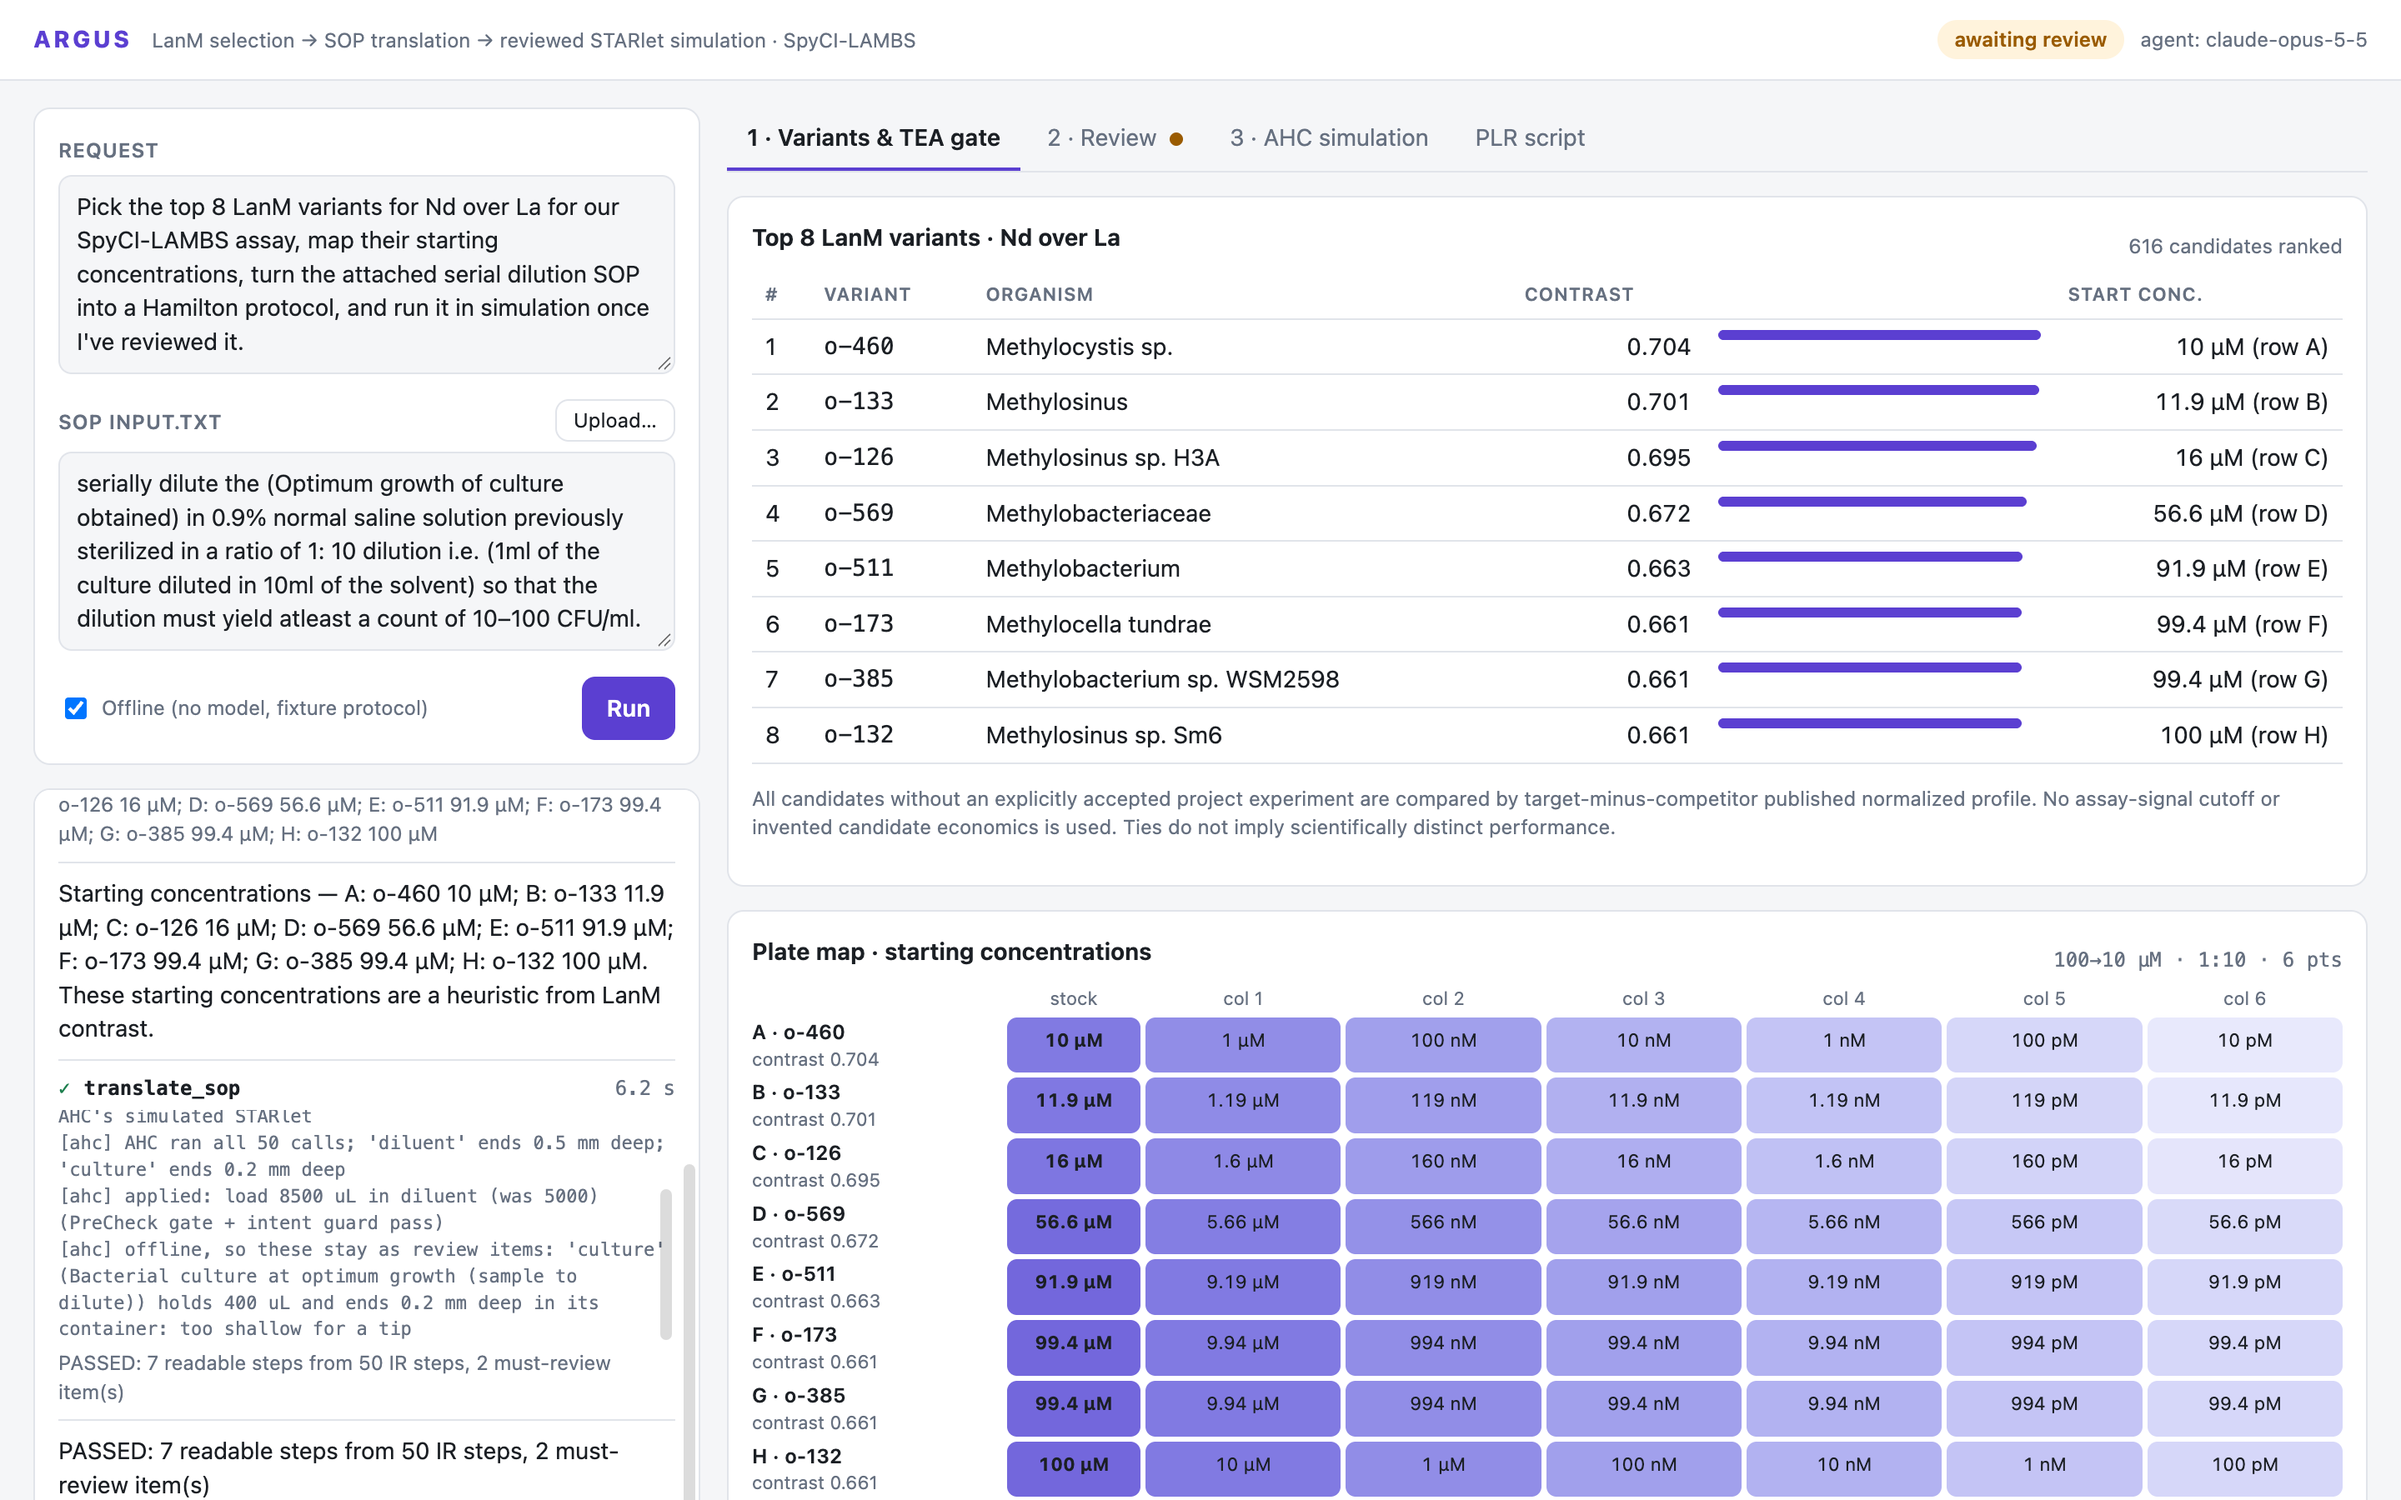
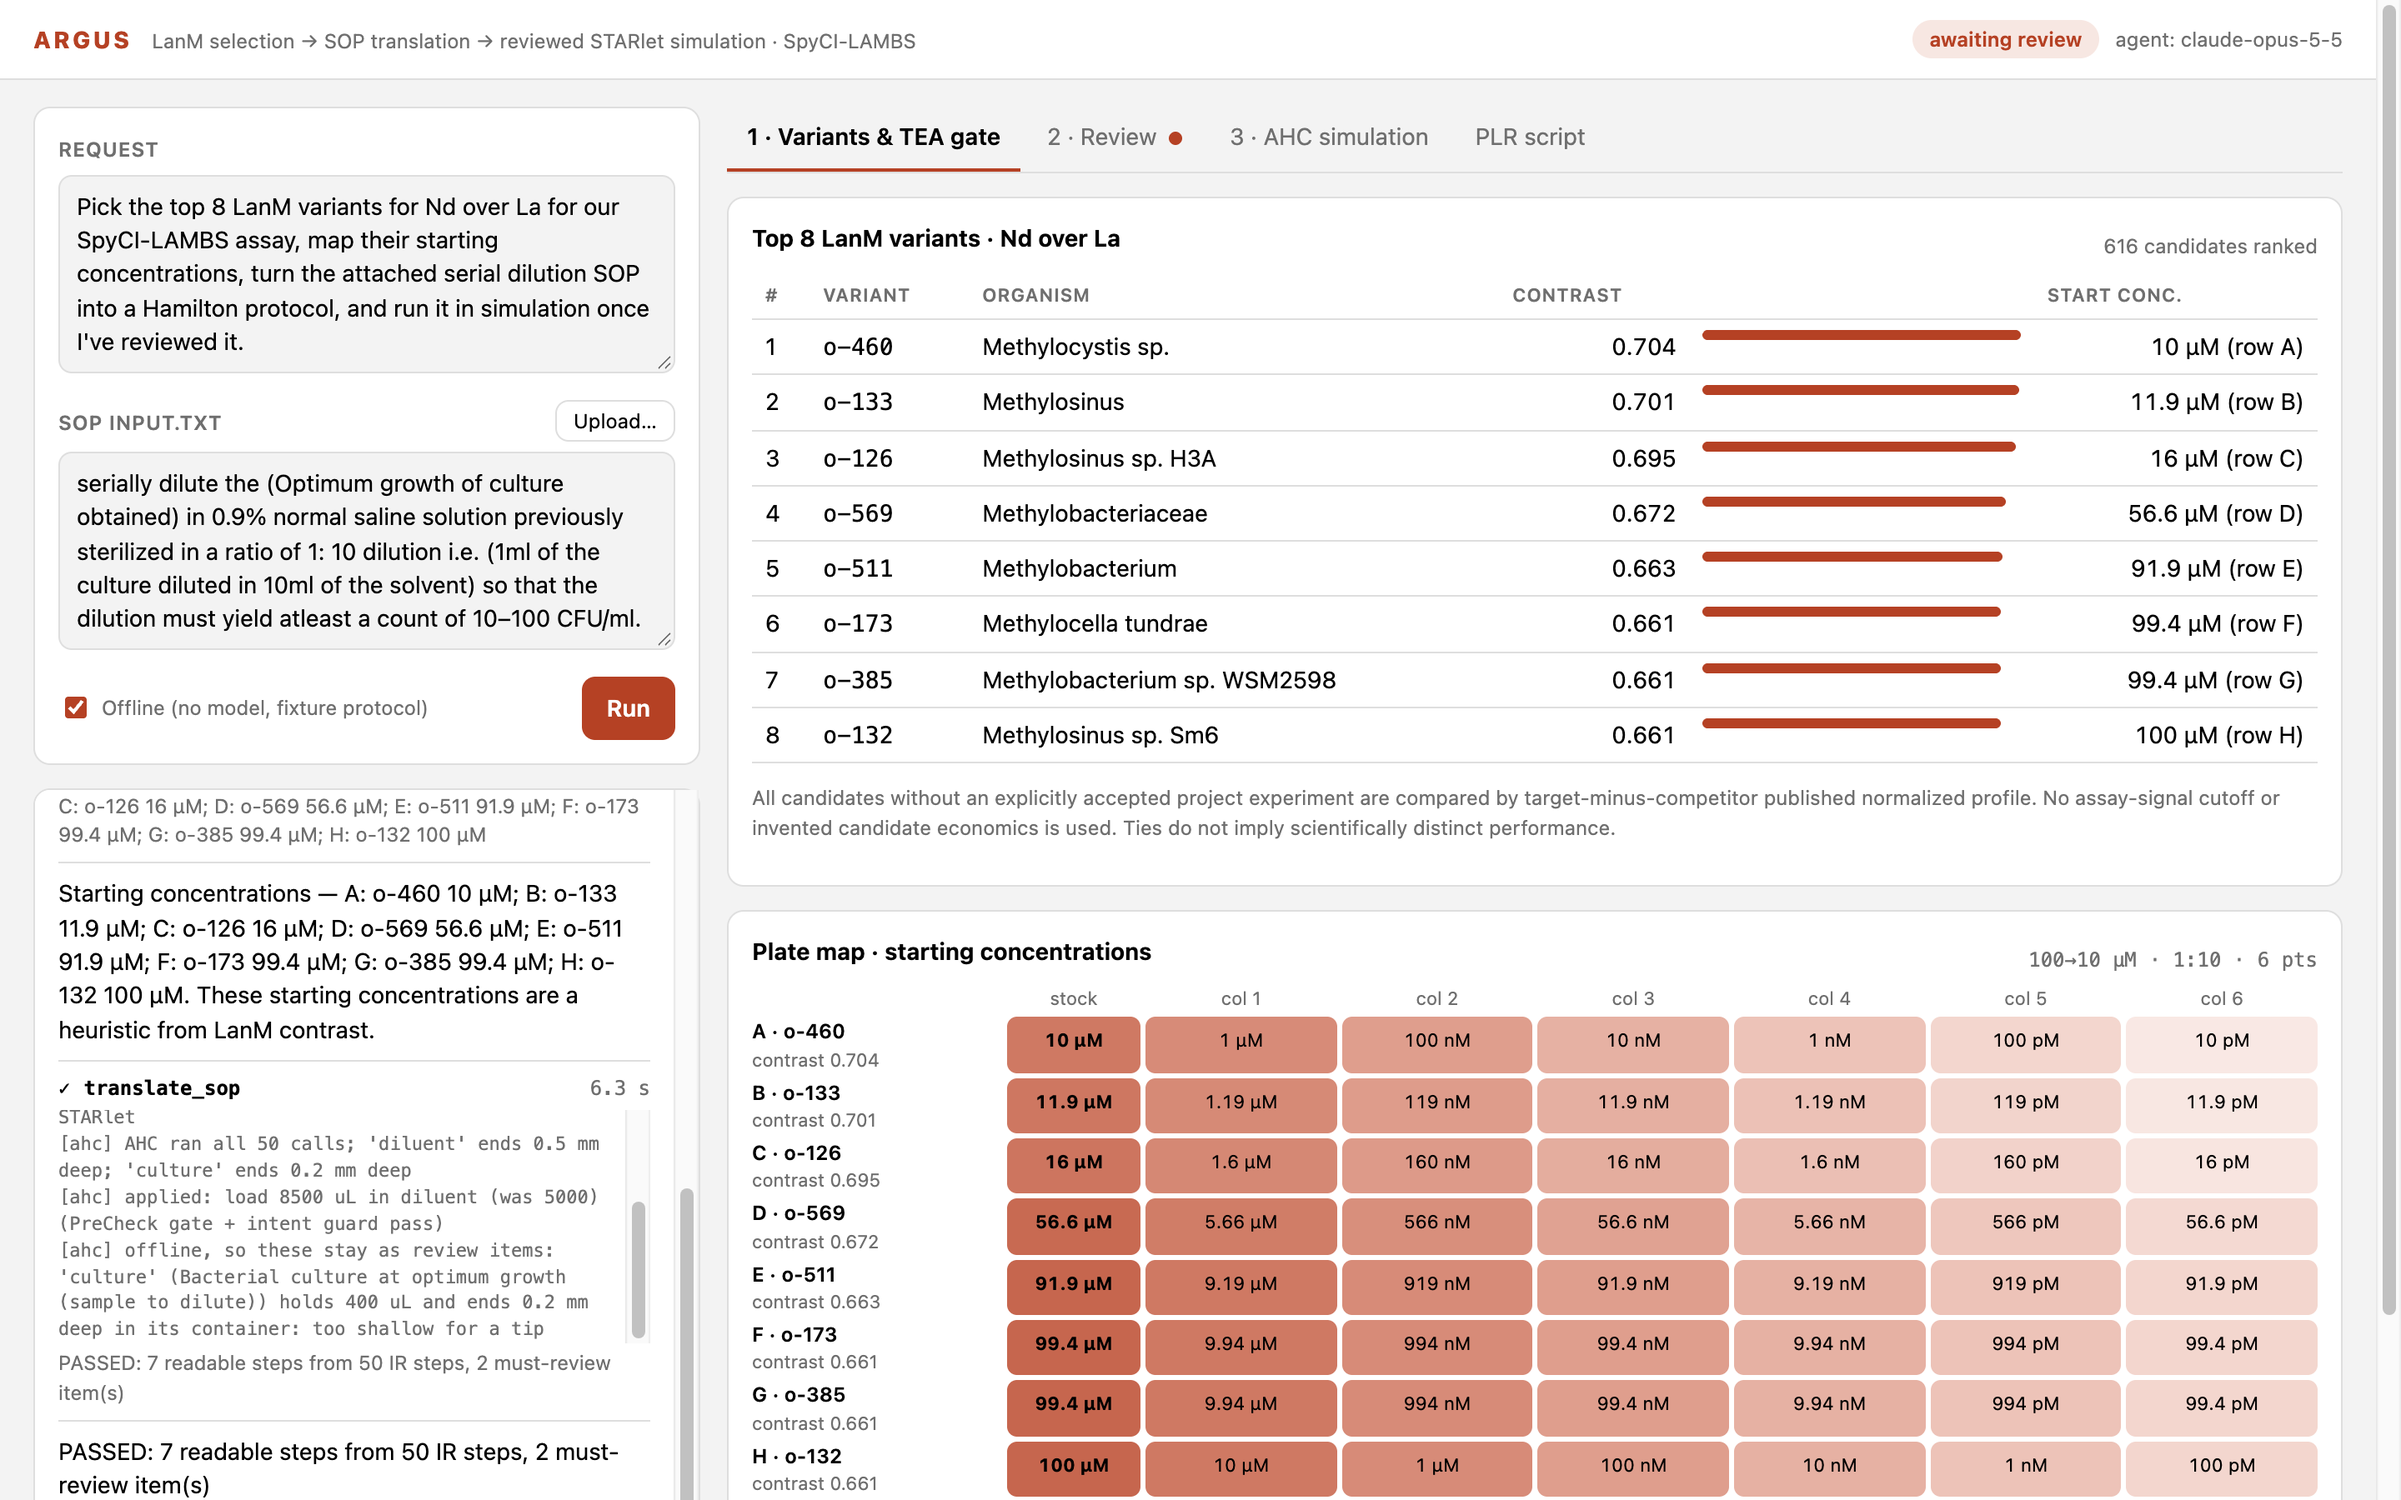
Apply the new color palette and retake the README screenshots.

diff --git a/argus/web/styles.css b/argus/web/styles.css
@@ -1,20 +1,23 @@
 :root {
-  --bg: #f5f6f8; --card: #ffffff; --ink: #1b1f24; --muted: #667080; --line: #e1e4ea;
-  --accent: #5b3fd1; --accent-ink: #ffffff; --accent-soft: #eeeafd;
-  --ok: #1d7f4e; --ok-soft: #e3f4ea; --warn: #9a5b00; --warn-soft: #fff3dc; --bad: #b42318; --bad-soft: #fde8e6;
-  --hl: #fff1a8; --code: #f3f4f7;
+  /* Palette: accent #b54124, background #f3f3f3, gray #6f6f6f, black, white. Status colors are drawn from it:
+     pass = black on light gray; needs attention = accent on a light accent tint; fail = darker accent on a
+     stronger tint. */
+  --bg: #f3f3f3; --card: #ffffff; --ink: #000000; --muted: #6f6f6f; --line: #dedede;
+  --accent: #b54124; --accent-ink: #ffffff; --accent-soft: #f7e7e2;
+  --ok: #000000; --ok-soft: #e6e6e6; --warn: #b54124; --warn-soft: #f7e7e2; --bad: #8c2f18; --bad-soft: #efcdc3;
+  --hl: #f7e7e2; --code: #f3f3f3;
   --radius: 10px; --mono: ui-monospace, SFMono-Regular, Menlo, monospace;
 }
 @media (prefers-color-scheme: dark) {
   :root {
-    --bg: #111317; --card: #1a1d23; --ink: #e8eaed; --muted: #9aa3b2; --line: #2b3038;
-    --accent: #9b87ff; --accent-ink: #14111f; --accent-soft: #272143;
-    --ok: #5fd39a; --ok-soft: #15301f; --warn: #f0b24a; --warn-soft: #33270f; --bad: #ff8a80; --bad-soft: #3a1a18;
-    --hl: #5a4d10; --code: #14161b;
+    --bg: #121212; --card: #1e1e1e; --ink: #ffffff; --muted: #a3a3a3; --line: #333333;
+    --accent: #d0603f; --accent-ink: #ffffff; --accent-soft: #3a211a;
+    --ok: #ffffff; --ok-soft: #2e2e2e; --warn: #e07a5c; --warn-soft: #3a211a; --bad: #ff9c82; --bad-soft: #4d2216;
+    --hl: #4a2a20; --code: #181818;
   }
 }
 * { box-sizing: border-box; }
-body { margin: 0; background: var(--bg); color: var(--ink); font: 14px/1.45 system-ui, -apple-system, "Segoe UI", sans-serif; }
+body { margin: 0; background: var(--bg); color: var(--ink); accent-color: var(--accent); font: 14px/1.45 system-ui, -apple-system, "Segoe UI", sans-serif; }
 h2 { font-size: 14px; margin: 0 0 10px; font-weight: 650; }
 .muted { color: var(--muted); } .small { font-size: 12px; } .mono { font-family: var(--mono); }
 .hidden { display: none !important; }
